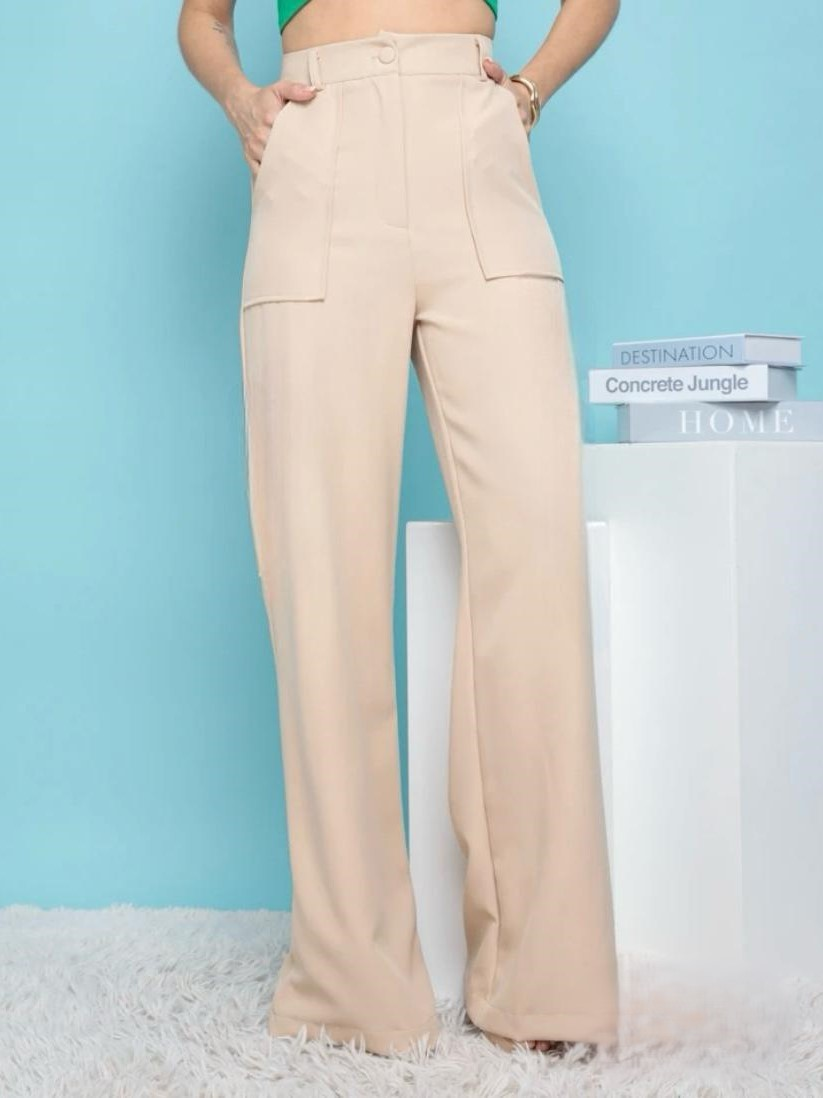
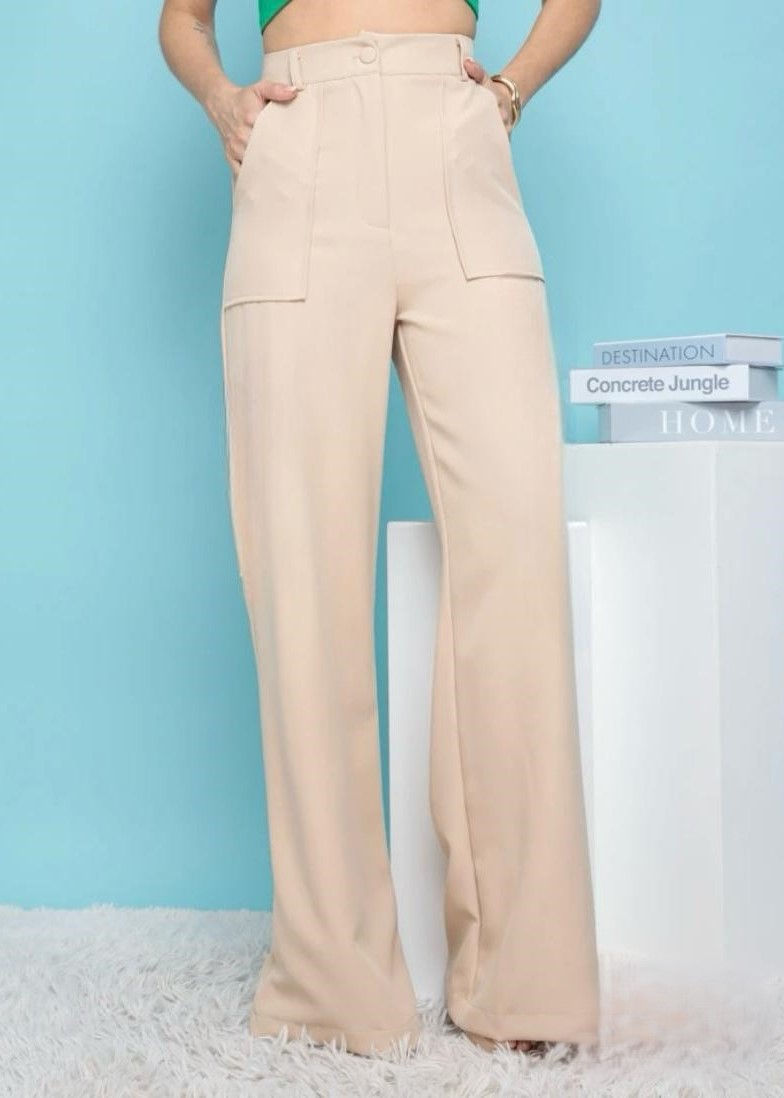
agregando nuevas imagenes

diff --git a/index.html b/index.html
@@ -100,7 +100,7 @@
                 <div class="item">
                     <span class="titulo-item">Urban side stripes</span>
                     <a href="comprasac.html">
-                    <img src="img/126B.jpeg" alt="" class="img-item"></a>
+                    <img src="img/118H.jpeg" alt="" class="img-item"></a>
                     <span class="precio-item">$79.900</span>
                     <a href="comprasac.html">
                     <button class="boton-item">Agregar al Carrito</button></a>

diff --git a/moda.html b/moda.html
@@ -87,7 +87,7 @@
                 <div class="item">
                     <span class="titulo-item">Urban side stripes</span>
                     <a href="comprasac.html">
-                    <img src="img/126B.jpeg" alt="" class="img-item"></a>
+                    <img src="img/118H.jpeg" alt="" class="img-item"></a>
                     <span class="precio-item">$79.900</span>
                     <button class="boton-item">Agregar al Carrito</button>
                 </div>

diff --git a/comprasac.html b/comprasac.html
@@ -54,7 +54,7 @@
     <h1>Elegant Butterfly</h1>
     <div class="comprasa" id="comprasa"> 
         <div> 
-            <img class= "comprasa_imagen" src="img/126A.jpeg" alt="imagen comprasa">
+            <img class= "comprasa_imagen" src="img/118A.jpeg" alt="imagen comprasa">
             <div class="informacion">
                 <p> Elegant Butterfly.</p>
                 <p class="precio">$79.900 </span></p>
